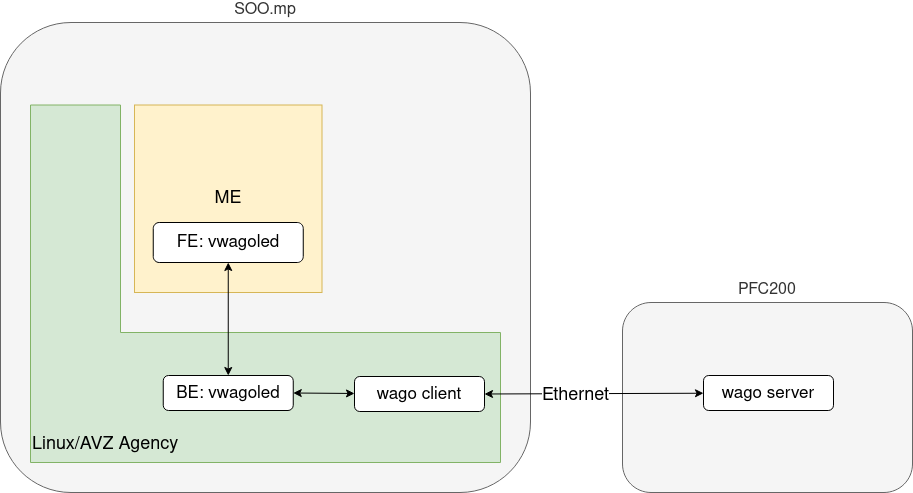
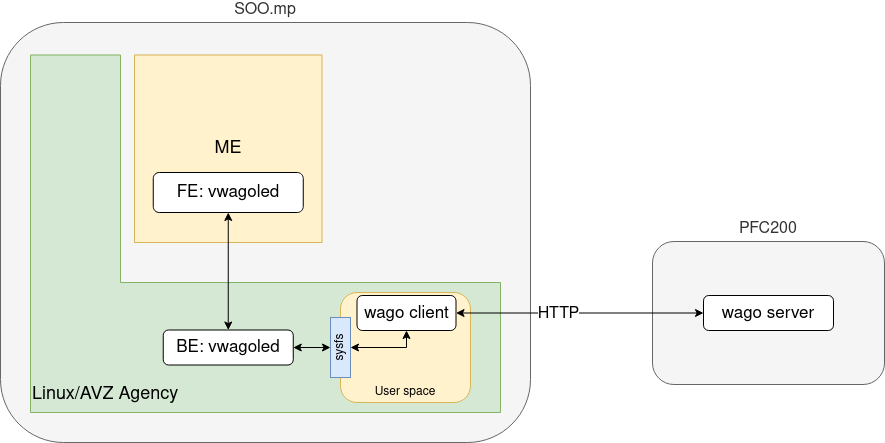
[WAGOLED] Add documentation vwagoled and small correction

diff --git a/doc/source/drivers/vwagoled.rst b/doc/source/drivers/vwagoled.rst
@@ -4,19 +4,59 @@
 vwagoled
 ********
 
-The *vwagoled* interface allows a ME to interact with WAGO PFC200 and its bus components.
+The *vwagoled* interface allows a ME to interact with WAGO PFC200 and its bus components. The figure below shows the interactions
+to communicate with the Wago ecosystem.
 
 .. figure:: /img/SOO_wagoled_architecture.png
     :align: center
 
 *vwagoled* backend
 ==================
+The backend receives instructions from the shared ring and communicate with the Wago-client through 
+the *sysfs* interface.
 
-*vwagoled* frontend
+*vwagoled* front end
+====================
+The fronted provides a function to send a command to apply to the LEDs. This function will create a
+new ring request and send it to the backend. 
+
+Wago client application
+=======================
+The Wago client application interacts with the *vwagoled* backend through *sysfs*. The entries provided
+by the backend are the following:
+
+- vwagoled_notify (read-only)
+- vwagoled_led_on (read-only)
+- vwagoled_led_off (read-only)
+- vwagoled_get_topology (read/write)
+- vwagoled_get_status (read/write)
+
+The application performs a blocking *read()* on *vwagoled_notify*. Once new data arrives *vwagoled_notify*
+will return a string containing which attribute to read next. The other attributes correspond to a specific action
+like turn on or off the LEDs. When performing a *read()* on one of this the IDs of the LEDs to perform the action 
+on is returned. The Wago application then send the corresponding HTTP request to the wago-server application running on the PFC200.
+
+Wago server application
+=======================
+The Wago server application implements a REST server which provides a REST API that allows to access
+the devices connected on the PFC200 KBus. In this specific case the REST API provides access to a 
+DALI Master Module (Wago 753-647) use to control the led connected to the DALI bus. The routes provided
+by the REST API are listed below:
+
++---------------------------------+-------------+----------------------------------+-----------------------------------------------------------+
+| Route (URL)                     | HTTP method | Arguments                        | Description                                               |
++---------------------------------+-------------+----------------------------------+-----------------------------------------------------------+
+| <ip>:<port>/dali/topology       | GET         | None                             | Return a list (json) of the devices found on the DALI bus |
++---------------------------------+-------------+----------------------------------+-----------------------------------------------------------+
+| <ip>:<port>/dali/led?id=        | GET         | Comma separated LED ids or "all" | Return the current status of the LEDs                     |
++---------------------------------+-------------+----------------------------------+-----------------------------------------------------------+
+| <ip>:<port>/dali/led/on?id=     | POST        | Comma separated LED ids or "all" | Turn on the LEDs                                          |
++---------------------------------+-------------+----------------------------------+-----------------------------------------------------------+
+| <ip>:<port>/dali/led/off?id=    | POST        | Comma separated LED ids or "all" | Turn off the LEDs                                         |
++---------------------------------+-------------+----------------------------------+-----------------------------------------------------------+
+| <ip>:<port>/dali/led/toggle?id= | POST        | Comma separated LED ids or "all" | Toggle the LEDs (inverse current status)                  |
++---------------------------------+-------------+----------------------------------+-----------------------------------------------------------+
+
+Future developments
 ===================
-
-wago client application
-=======================
-
-wago server application
-=======================
+- BE support for multiple FEs

diff --git a/doc/source/drivers/venocean.rst b/doc/source/drivers/venocean.rst
@@ -69,17 +69,17 @@ Data structure:
 | 0x06 + x + y | None   | CRC8 data       | 0xnn      |                                                  |
 +--------------+--------+-----------------+-----------+--------------------------------------------------+
 
-The EnOcean data is contained in the data field and it's the only part of the ESP3 packet that the *venocean* backend sends to the *venocean* frontend. The rest of the data is 
+The EnOcean data is contained in the data field and it's the only part of the ESP3 packet that the *venocean* backend sends to the *venocean* front end. The rest of the data is 
 used by the TCM515 driver.
 
 *venocean* backend
 ==================
 The backend subscribes to `TCM515 driver`_ to receive EnOcean telegrams. When new data is received the backend extract the data part of the `ESP3 packet`_ and forward it to 
-the venocean frontend through the shared ring.
+the venocean front end through the shared ring.
 
-*venocean* frontend
-===================
-The frontend received the EnOcean telegram through the shared ring. An ME can get the EnOcean data by calling the *venocean_get_data()* function. This function is blocking and will
+*venocean* front end
+====================
+The front end received the EnOcean telegram through the shared ring. An ME can get the EnOcean data by calling the *venocean_get_data()* function. This function is blocking and will
 return only when new data is received.
 
 Supported EnOcean devices
@@ -96,10 +96,9 @@ Switches
 +=============+===========+============+===========================+
 | 0x00        | RORG      | 0x76       | Radio telegram type RPS   |
 +-------------+-----------+------------+---------------------------+
-|| 0x01       || Data     || 0xnn      || Switch values            |
-||            ||          ||           || - 0x00 switch released   |
-||            ||          ||           || - 0x70 switch press up   |
-||            ||          ||           || - 0x50 switch press down |
+| 0x01        | Data      | 0xnn       | - 0x00 switch released    |
+|             |           |            | - 0x70 switch press up    |
+|             |           |            | - 0x50 switch press down  |
 +-------------+-----------+------------+---------------------------+
 | 0x02 - 0x05 | Sender ID | 0xnnnnnnnn | EnOcean Unique ID         |
 +-------------+-----------+------------+---------------------------+
@@ -111,9 +110,10 @@ More to come ...
 Future developments
 ===================
 
-- BE/FE add possibility to send EnOcean telegrams from the frontend.
+- BE/FE add possibility to send EnOcean telegrams from the front end.
 - Implement more TCM515 commands as needed and provide an interface (sysfs ?) to interact with the TCM515.
-
+- BE supports for multiple FEs
+  
 .. _TCM515: https://www.enocean.com/wp-content/uploads/downloads-produkte/en/products/enocean_modules/tcm-515/user-manual-pdf/TCM-515-User-Manual-21.pdf
 .. _ESP3: https://usermanual.wiki/m/a0b4d9036aad0f4f220621c1d89bad843cbb72e96b17194c9248bb519fc3b2bc.pdf
 .. _Packet type: https://usermanual.wiki/m/a0b4d9036aad0f4f220621c1d89bad843cbb72e96b17194c9248bb519fc3b2bc.pdf#%5B%7B%22num%22%3A41%2C%22gen%22%3A0%7D%2C%7B%22name%22%3A%22XYZ%22%7D%2C65%2C697%2C0%5D

diff --git a/doc/source/architecture/ME/ME.rst b/doc/source/architecture/ME/ME.rst
@@ -71,20 +71,20 @@ Basic mobile entities
 Mobile entities devoted to SOO.domotics family
 ^^^^^^^^^^^^^^^^^^^^^^^^^^^^^^^^^^^^^^^^^^^^^^
 
-+----------------------+----------------------------------------------------------------------------+
-| SPID                 | ME Description                                                             |
-+======================+============================================================================+
-| *0x0020000000000001* | SOO.blind is devoted to the handling of a "standard" blind which provides  |
-|                      | the user with features such as putting the blinds up or down, but the ME   |
-|                      | can also perform synergies with SOO.outdoor for example to decide how      |
-|                      | to manipulate the blinds, according to the weather condition               |
-+----------------------+----------------------------------------------------------------------------+
-| *0x0020000000000002* | SOO.outdoor is able to collect data from any weather station. This ME      |
-|                      | can be used in conjunction with other MEs which can use this kind of data. |
-+----------------------+----------------------------------------------------------------------------+
-| *0x0020000000000003* | SOO.wagoled                                                                |
-|                      |                                                                            |
-+----------------------+----------------------------------------------------------------------------+
++-----------------------+-----------------------------------------------------------------------------+
+| SPID                  | ME Description                                                              |
++=======================+=============================================================================+
+|| *0x0020000000000001* || SOO.blind is devoted to the handling of a "standard" blind which provides  |
+||                      || the user with features such as putting the blinds up or down, but the ME   |
+||                      || can also perform synergies with SOO.outdoor for example to decide how      |
+||                      || to manipulate the blinds, according to the weather condition               |
++-----------------------+-----------------------------------------------------------------------------+
+|| *0x0020000000000002* || SOO.outdoor is able to collect data from any weather station. This ME      |
+||                      || can be used in conjunction with other MEs which can use this kind of data. |
++-----------------------+-----------------------------------------------------------------------------+
+|| *0x0020000000000003* || SOO.wagoled is able to received event from an EnOcean switch and redirect  |
+||                      || the received commnand to the Wago ecosystem.                               |
++-----------------------+-----------------------------------------------------------------------------+
 
 System and housekeeping mobile entities
 ^^^^^^^^^^^^^^^^^^^^^^^^^^^^^^^^^^^^^^^

diff --git a/doc/source/drivers/drivers.rst b/doc/source/drivers/drivers.rst
@@ -12,10 +12,14 @@ Frontend & backend drivers
    
    vdummy  
 <<<<<<< HEAD
+<<<<<<< HEAD
    vuihandler 
    
 =======
    vwagoled 
+=======
+   vwagoled
+>>>>>>> 678638de9f... [WAGOLED] Add documentation vwagoled and small correction
    venocean
 >>>>>>> 1737aece1b... [WAGOLED] Add venocean doc, minor modifications
 
